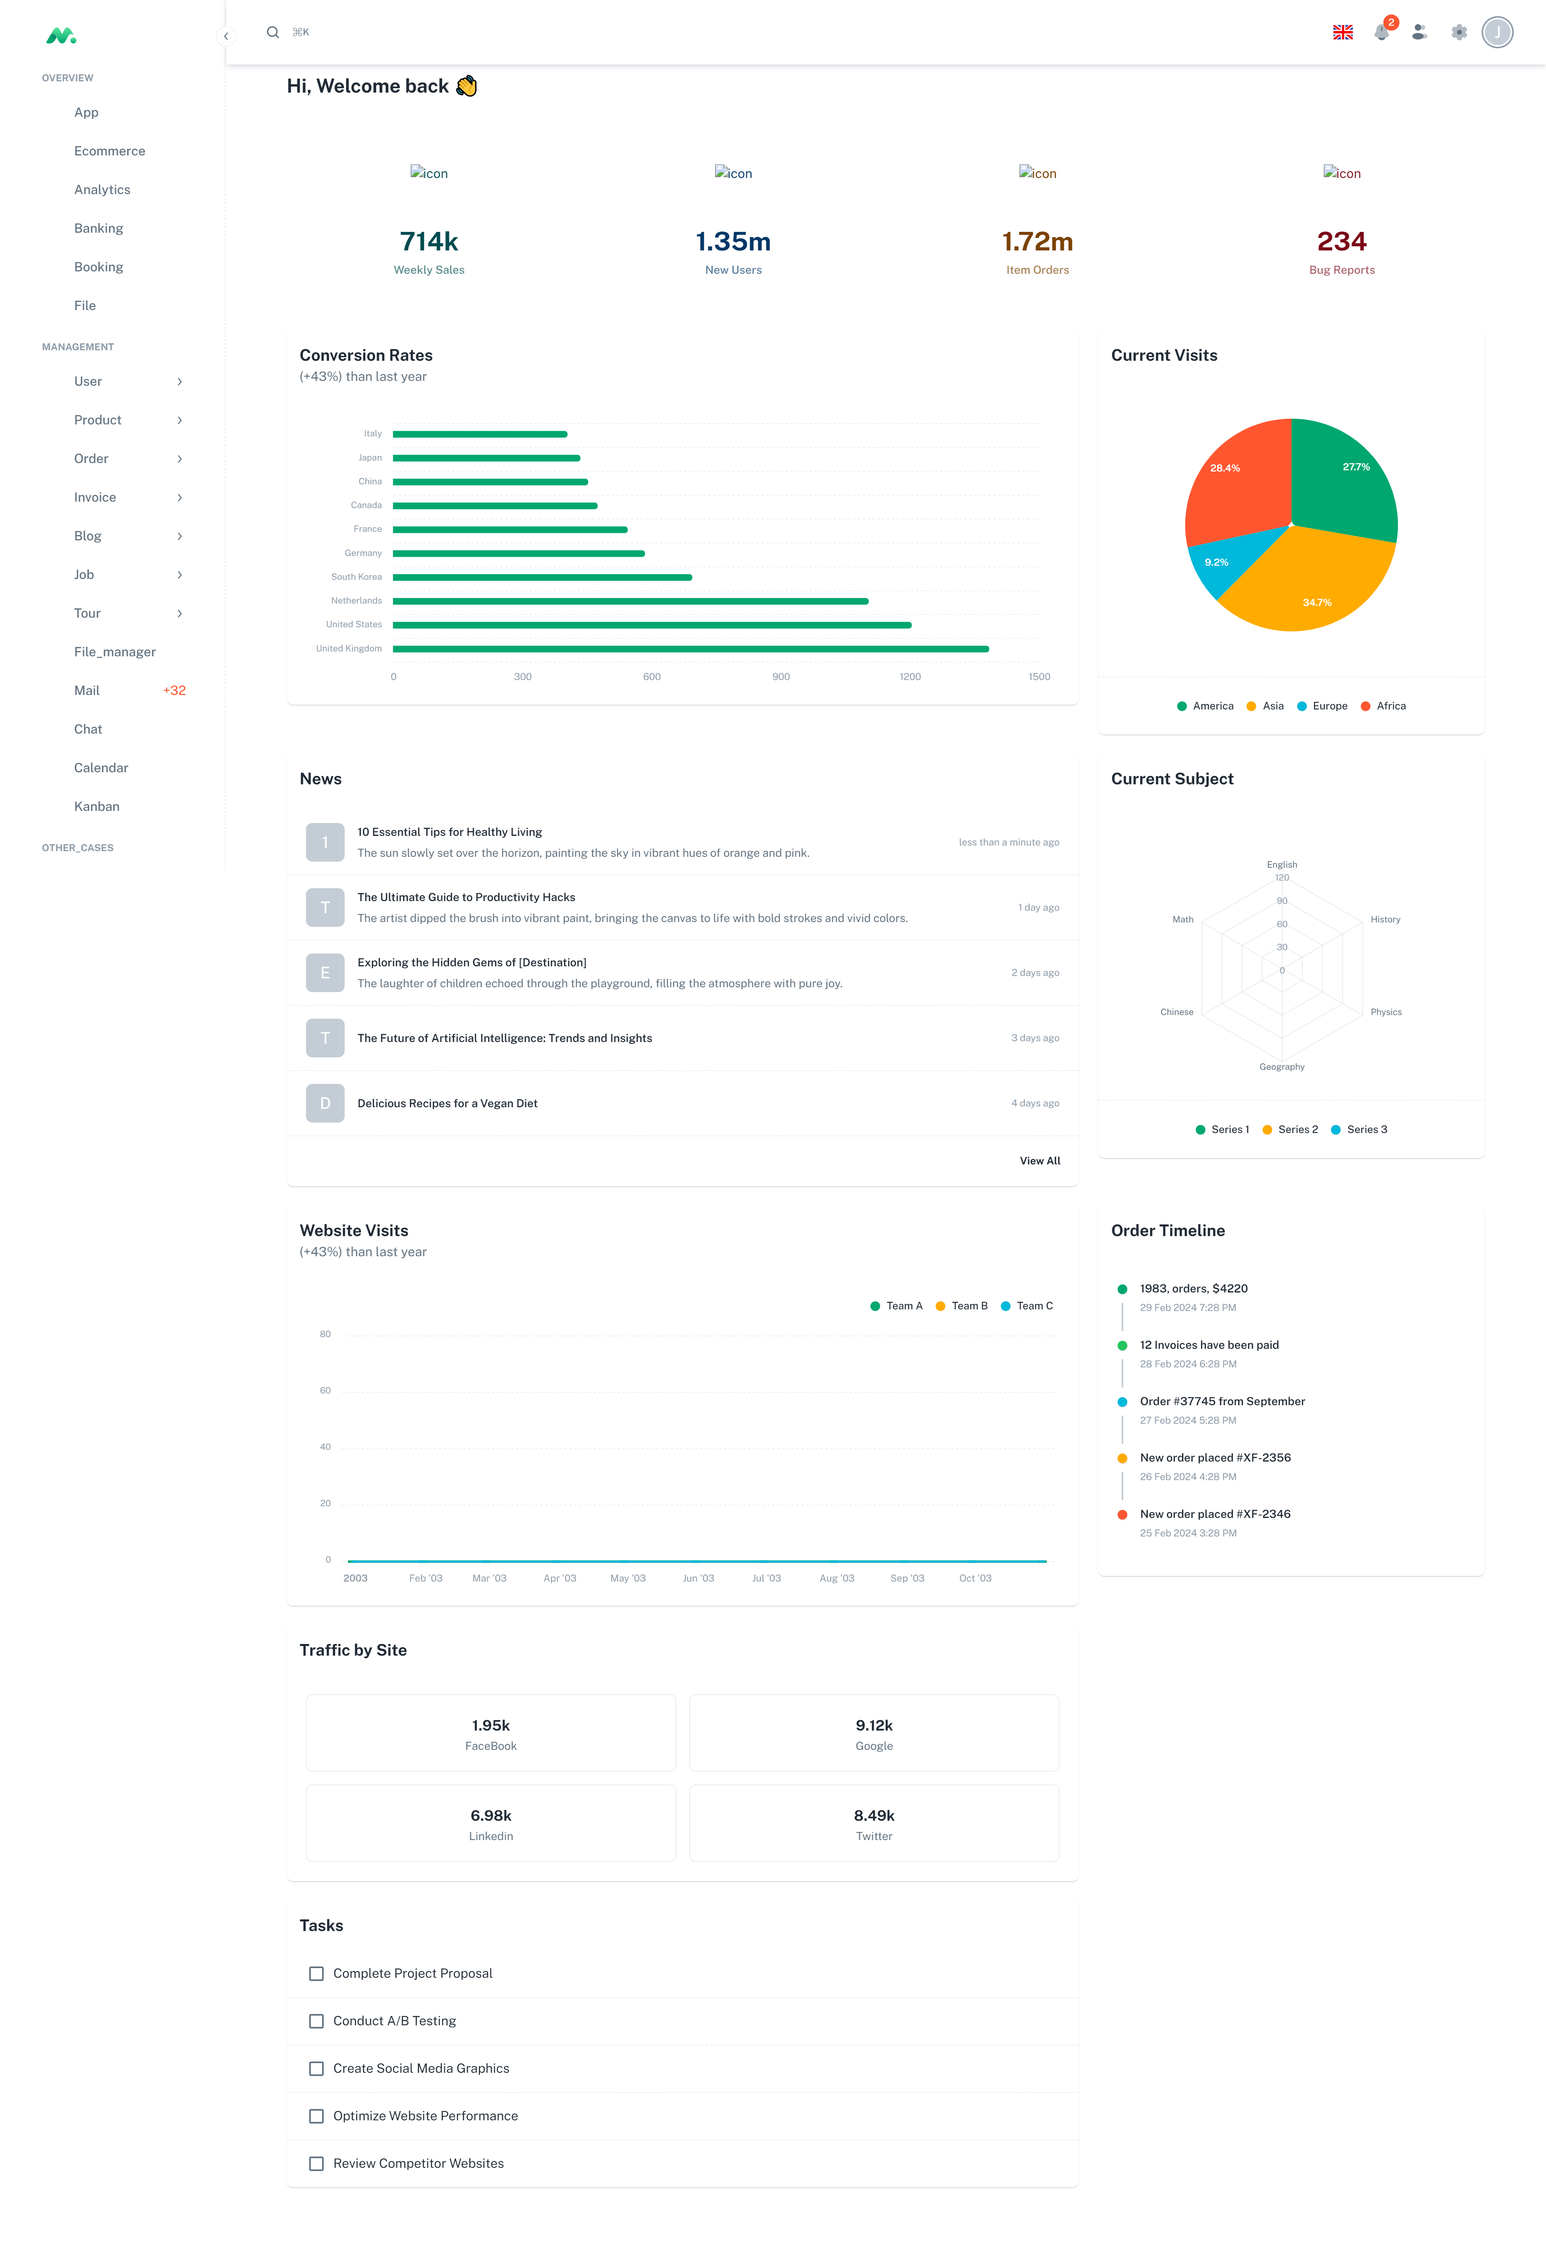
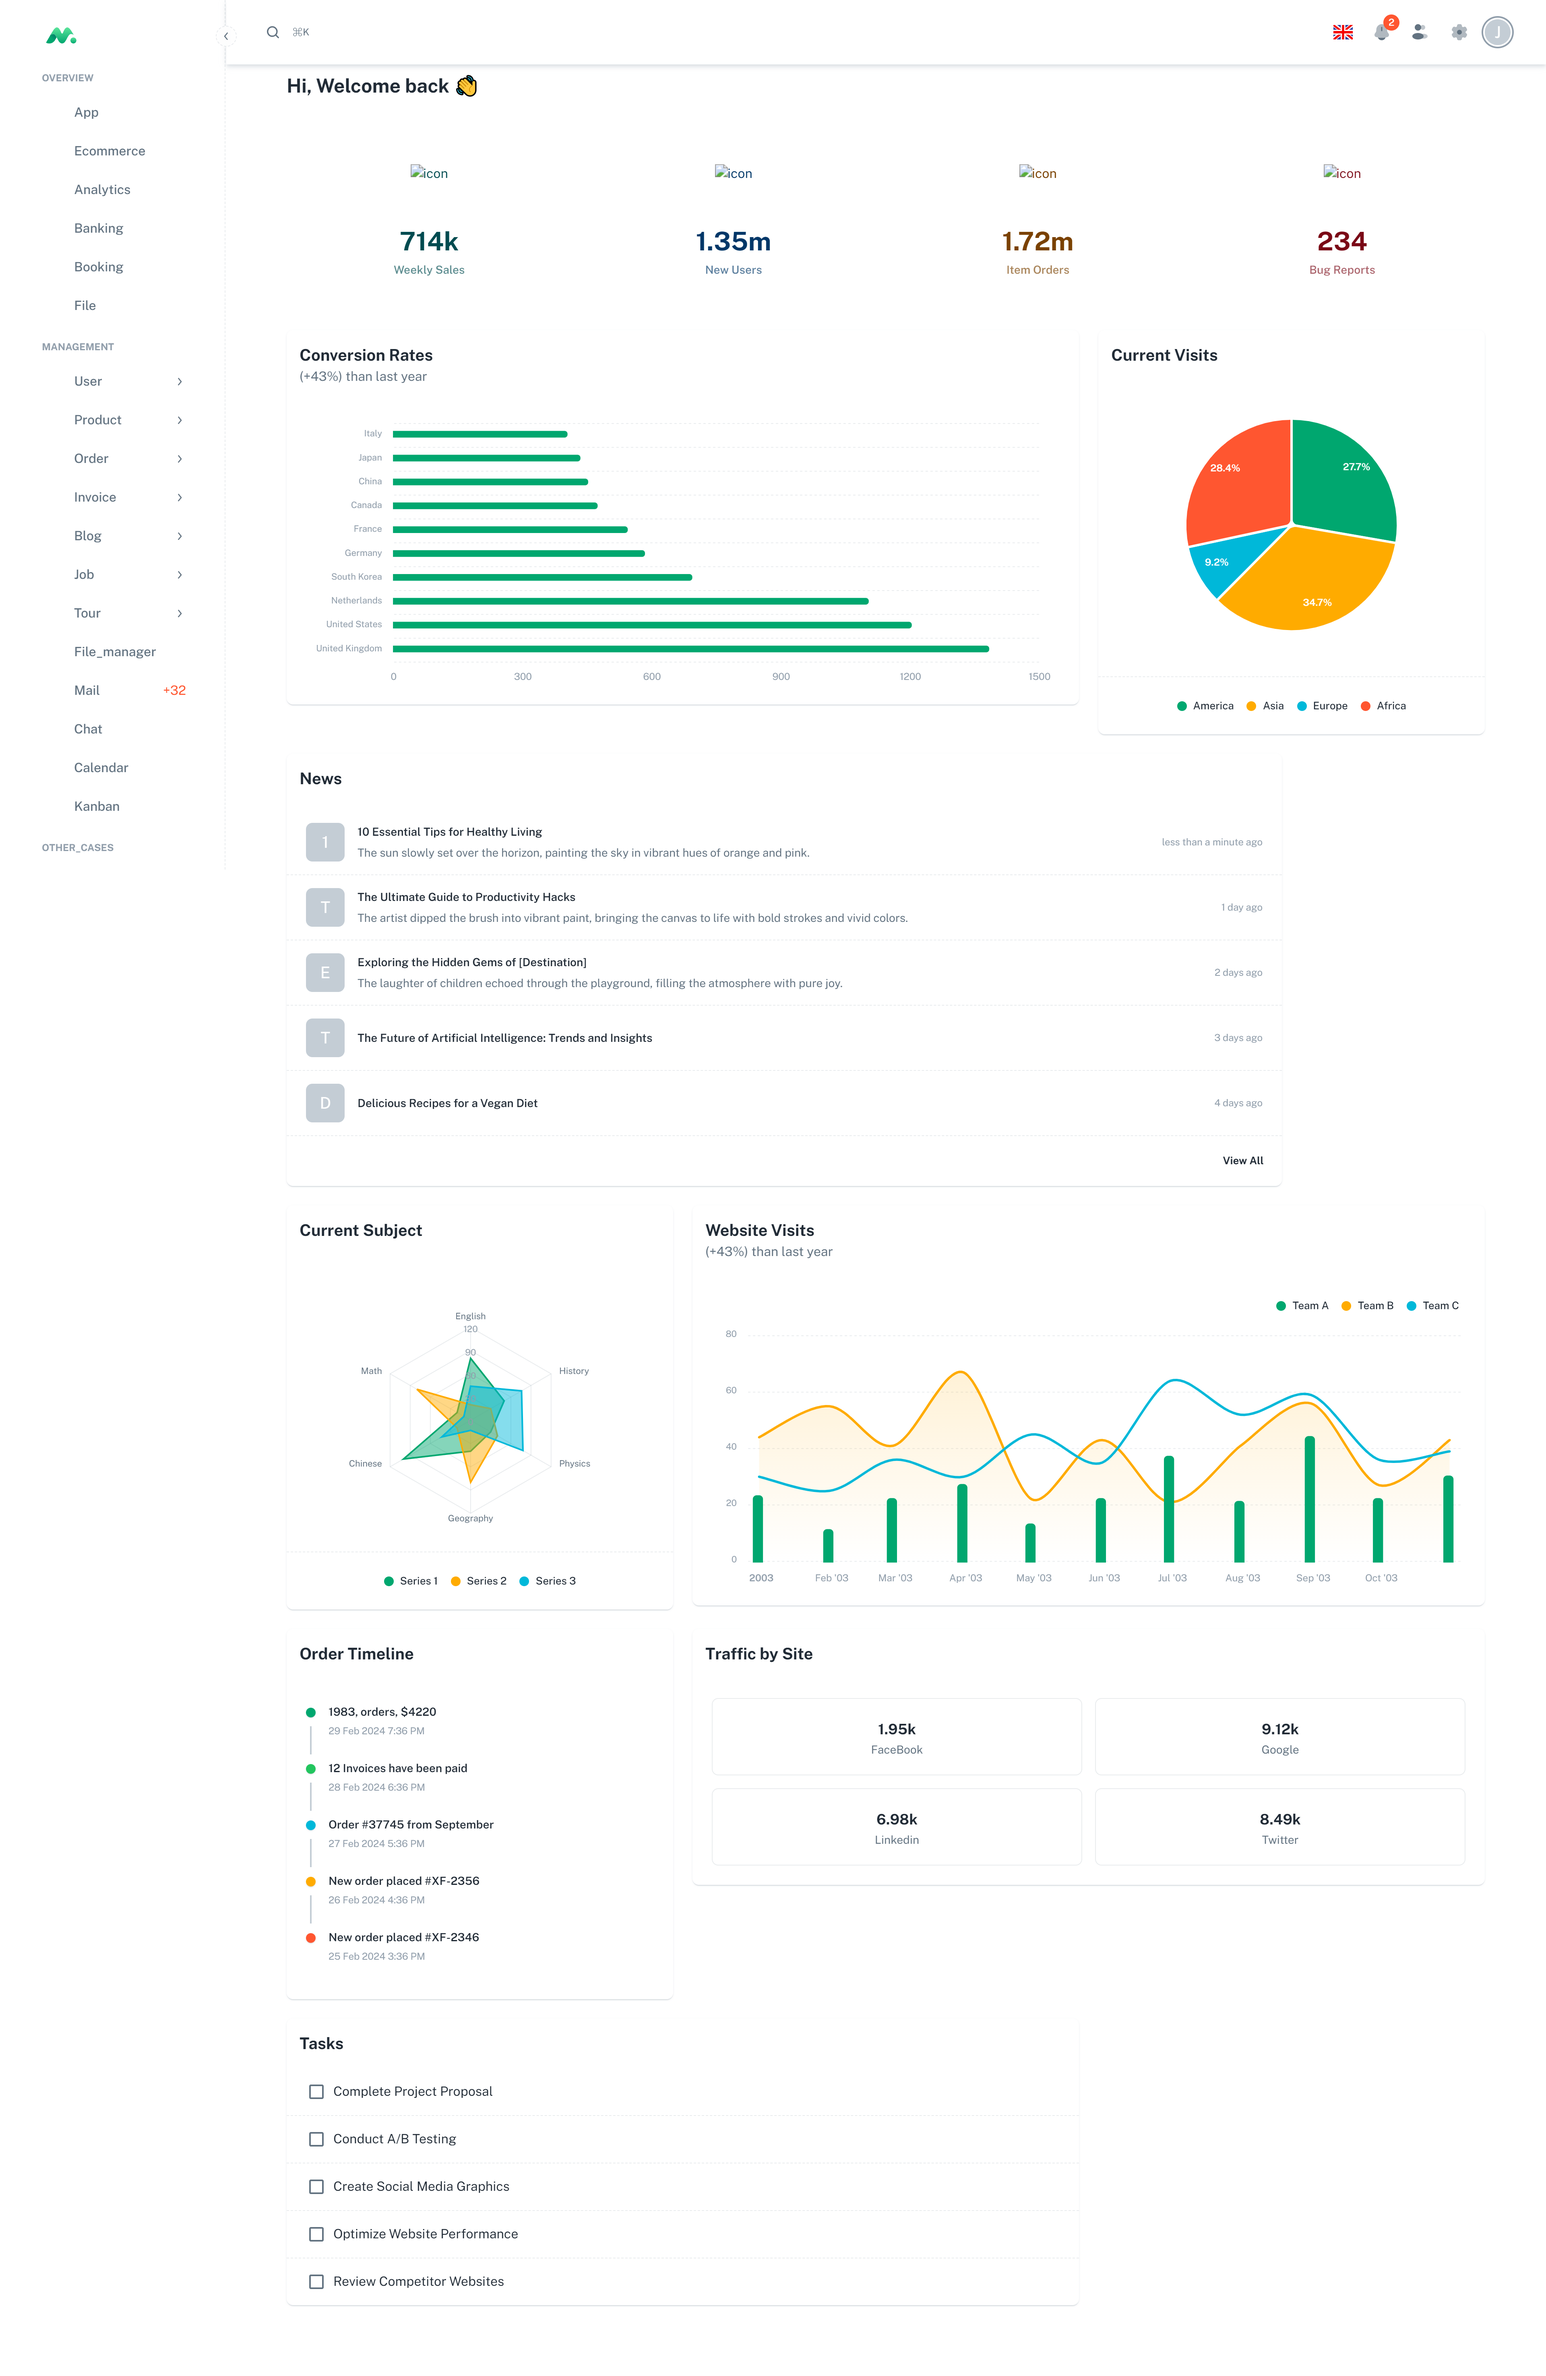
cr_17

diff --git a/src/pages/analytics/OverviewAnalyticsView.jsx b/src/pages/analytics/OverviewAnalyticsView.jsx
@@ -119,7 +119,7 @@ export default function OverviewAnalyticsView() {
         </Grid>
 
        
-        <Grid xs={12} md={6} lg={8}>
+        <Grid xs={12} md={10} lg={10}>
           <AnalyticsNews title="News" list={_analyticPosts} />
         </Grid>
         <Grid xs={12} md={6} lg={4}>
@@ -143,7 +143,7 @@ export default function OverviewAnalyticsView() {
           />
         </Grid>
 
-        <Grid xs={12} md={6} lg={8}>
+        <Grid xs={12} md={10} lg={8}>
           <AnalyticsWebsiteVisits
             title="Website Visits"
             subheader="(+43%) than last year"
